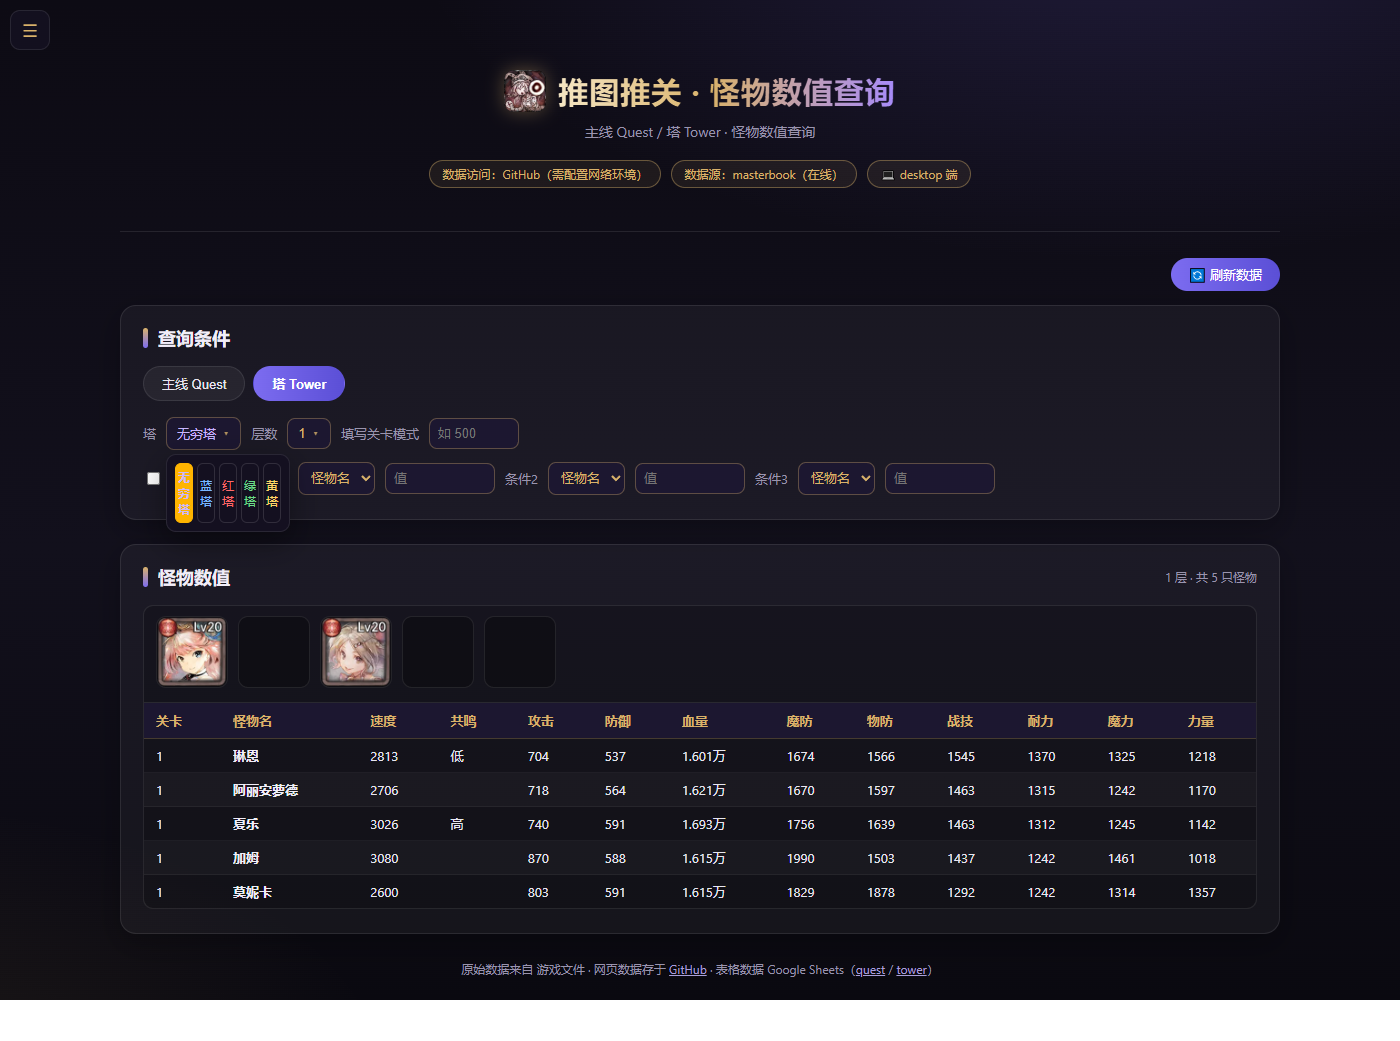
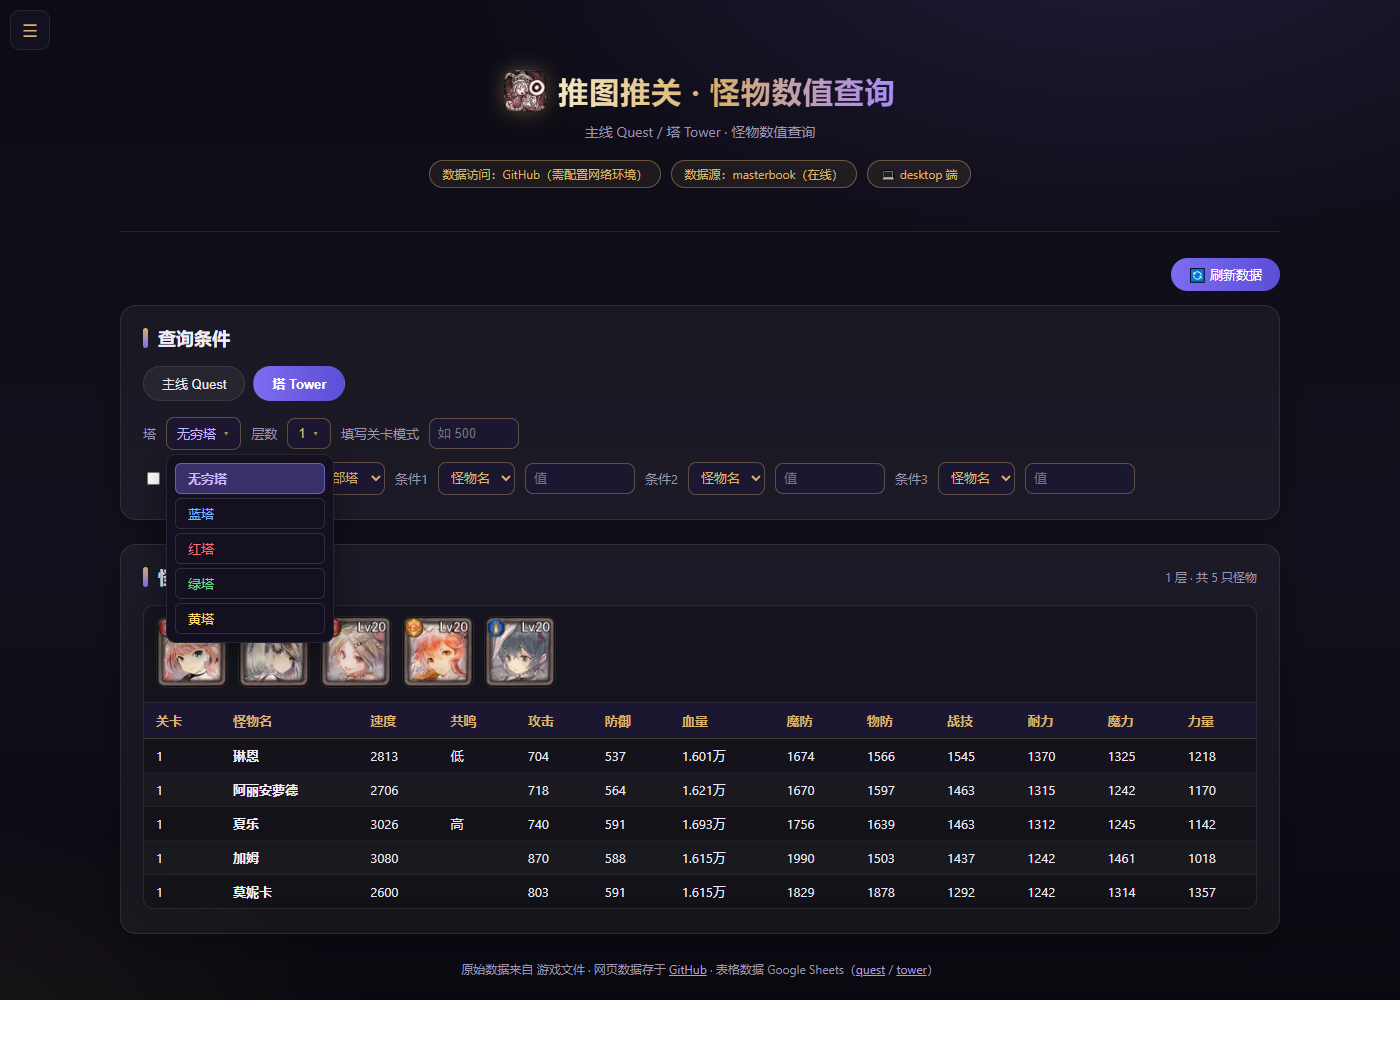
怪物页(塔)：塔下拉改竖向列表，选中用黑蓝悬浮高亮(不用橙色)；搜索加塔类型筛选，全部塔搜索时关卡列显示彩色塔名避免重复

Changed region(s): [[0.0921, 0.4304, 0.7064, 0.6763], [0.2764, 0.5841, 0.3993, 0.6763]]

diff --git a/monsters.html b/monsters.html
@@ -64,6 +64,10 @@ section.card h2::before{content:"";width:5px;height:20px;border-radius:3px;backg
 .dd-pager{display:flex;align-items:center;gap:8px;padding:6px 2px 8px;color:var(--muted);font-size:12px}
 .dd-pager .mini{padding:4px 10px;font-size:11px}
 .dd-pager .mini:disabled{opacity:.4;cursor:default}
+.dd-list{display:flex;flex-direction:column;gap:4px;min-width:150px}
+.dd-list button{background:transparent;color:#fff;border:1px solid rgba(255,255,255,.12);border-radius:6px;padding:6px 12px;font-size:13px;cursor:pointer;text-align:left}
+.dd-list button:hover{background:rgba(124,108,240,.25)}
+.dd-list button.sel{background:rgba(124,108,240,.35);border-color:rgba(124,108,240,.7);font-weight:700}
 .sres{border:1px solid var(--panel-border);border-radius:10px;margin:10px 0;background:rgba(0,0,0,.18);overflow:hidden}
 .sres-head{display:flex;align-items:center;gap:10px;padding:10px 12px;border-bottom:1px solid var(--panel-border);background:#1c1730}
 .sres-stage{font-weight:700;color:var(--gold)}
@@ -184,7 +188,7 @@ section[id]{scroll-margin-top:16px}
       <label>塔</label>
       <div class="dd" id="dd-tower">
         <button class="dd-btn" onclick="toggleDD('tower')"><span id="dd-tower-label">—</span><span class="dd-arrow">▾</span></button>
-        <div class="dd-panel" id="ddp-tower" style="display:none"><div class="dd-grid" id="ddg-tower" style="grid-template-columns:repeat(5,1fr);min-width:0"></div></div>
+        <div class="dd-panel" id="ddp-tower" style="display:none"><div class="dd-list" id="ddg-tower"></div></div>
       </div>
       <label>层数</label>
       <div class="dd" id="dd-level">
@@ -205,6 +209,7 @@ section[id]{scroll-margin-top:16px}
     </div>
     <div class="qrow" style="margin-top:12px;flex-wrap:wrap">
       <label class="chk"><input type="checkbox" id="chk-all" onchange="doSearch()"> 搜索全部章节</label>
+      <label id="lbl-tower-filter" style="display:none">塔类型</label><select id="sel-tower-filter" style="display:none" onchange="doSearch()"></select>
       <label>条件1</label><select id="sel-c1" class="cond-sel" onchange="doSearch()"></select><input type="text" id="inp-m1" class="num-inp" style="width:110px" placeholder="值" onchange="doSearch()">
       <label>条件2</label><select id="sel-c2" class="cond-sel" onchange="doSearch()"></select><input type="text" id="inp-m2" class="num-inp" style="width:110px" placeholder="值" onchange="doSearch()">
       <label>条件3</label><select id="sel-c3" class="cond-sel" onchange="doSearch()"></select><input type="text" id="inp-m3" class="num-inp" style="width:110px" placeholder="值" onchange="doSearch()">
@@ -353,7 +358,17 @@ function buildTowerSelects(){
   const lab = document.getElementById("dd-tower-label");
   lab.textContent = TOWERS[towerIdx].label;
   lab.style.color = TOWERS[towerIdx].color;
+  const fsel = document.getElementById("sel-tower-filter");
+  if (fsel && !fsel.dataset.built){
+    fsel.innerHTML = '<option value="-1">' + '全部塔' + '</option>' + TOWERS.map((t, i) => '<option value="' + i + '" style="color:' + t.color + '">' + t.label + '</option>').join('');
+    fsel.dataset.built = '1';
+  }
   onTowerChange();
+}
+function towerFilter(){
+  const fsel = document.getElementById("sel-tower-filter");
+  const v = fsel ? parseInt(fsel.value, 10) : -1;
+  return (v >= 0 && v < TOWERS.length) ? TOWERS[v] : null;
 }
 function selectTower(i){
   towerIdx = i;
@@ -435,6 +450,9 @@ function setMode(m){
   document.getElementById("tab-tower").classList.toggle("active", m === "tower");
   document.getElementById("q-quest").style.display = m === "quest" ? "flex" : "none";
   document.getElementById("q-tower").style.display = m === "tower" ? "flex" : "none";
+  const tfm = m === "tower";
+  document.getElementById("lbl-tower-filter").style.display = tfm ? "" : "none";
+  document.getElementById("sel-tower-filter").style.display = tfm ? "" : "none";
   onQueryChange();
 }
 function currentStageStr(){
@@ -559,6 +577,13 @@ function sortRows(rows){
     return String(a[sortCol] || "").localeCompare(String(b[sortCol] || ""), "zh-Hans-CN") * dir;
   });
 }
+function towerStageHtml(stageStr){
+  const m = /^(.+?)(\d+)$/.exec(String(stageStr));
+  if (!m) return esc(stageStr);
+  const t = TOWERS.find(x => x.prefix === m[1]);
+  if (!t || towerFilter() !== null) return esc(m[2]);
+  return '<span style="color:' + t.color + '">' + esc(t.label) + "</span> " + esc(m[2]);
+}
 function sortResult(col){
   if (sortCol === col) sortDir = -sortDir;
   else { sortCol = col; sortDir = 1; }
@@ -573,7 +598,8 @@ function doSearch(){
   const data = mode === "quest" ? questData : towerData;
   if (!data) return;
   const all = document.getElementById("chk-all").checked;
-  const pool = all ? data.rows : data.rows.filter(r => String(r[0]) === currentStageStr());
+  const tf = mode === "tower" ? towerFilter() : null;
+  const pool = (all ? data.rows : data.rows.filter(r => String(r[0]) === currentStageStr())).filter(r => !tf || String(r[0]).startsWith(tf.prefix));
   const map = {};
   for (const r of pool){ const s = String(r[0]); (map[s] = map[s] || []).push(r); }
   const results = Object.keys(map)
@@ -597,9 +623,9 @@ function renderSearch(results, conds, all){
     }
     const sorted = sortRows(matchedAll);
     for (const r of sorted){
-      const st = mode === "tower" ? String(r[0]).replace(/^.+?(\d+)$/, "$1") : String(r[0]);
+      const st = mode === "tower" ? towerStageHtml(r[0]) : esc(String(r[0]));
       rowsHtml += "<tr>"
-        + "<td>" + esc(st) + "</td>"
+        + "<td>" + st + "</td>"
         + '<td class="mname">' + esc(r[1]) + "</td>"
         + "<td>" + esc(r[5]) + "</td>"
         + "<td>" + esc(r[6]) + "</td>"
@@ -617,9 +643,9 @@ function renderSearch(results, conds, all){
     }
   } else {
     for (const rs of results){
-      const st = mode === "tower" ? String(rs.stage).replace(/^.+?(\d+)$/, "$1") : String(rs.stage);
+      const st = mode === "tower" ? towerStageHtml(rs.stage) : esc(String(rs.stage));
       rowsHtml += "<tr>"
-        + "<td>" + esc(st) + "</td>"
+        + "<td>" + st + "</td>"
         + "<td>" + esc(rs.stage) + " · 含 " + conds.length + " 个条件</td>"
         + '<td><button class="mini" onclick="expandStage(this, \'' + esc(rs.stage) + '\')">展开本关敌人</button></td>'
         + "</tr>";
@@ -637,7 +663,7 @@ function renderSearch(results, conds, all){
   let fulls = "";
   for (const rs of results){
     fulls += '<div class="sres-full" data-stage="' + esc(rs.stage) + '" style="display:none">'
-      + '<div class="sres-full-head"><span class="sres-stage">' + esc(rs.stage) + " · 全部敌人</span><button class=\"mini\" onclick=\"backToList(this)\">收起</button></div>"
+      + '<div class="sres-full-head"><span class="sres-stage">' + (mode === "tower" ? towerStageHtml(rs.stage) : esc(rs.stage)) + " · 全部敌人</span><button class=\"mini\" onclick=\"backToList(this)\">收起</button></div>"
       + stageContentHtml(rs.rows)
       + "</div>";
   }
